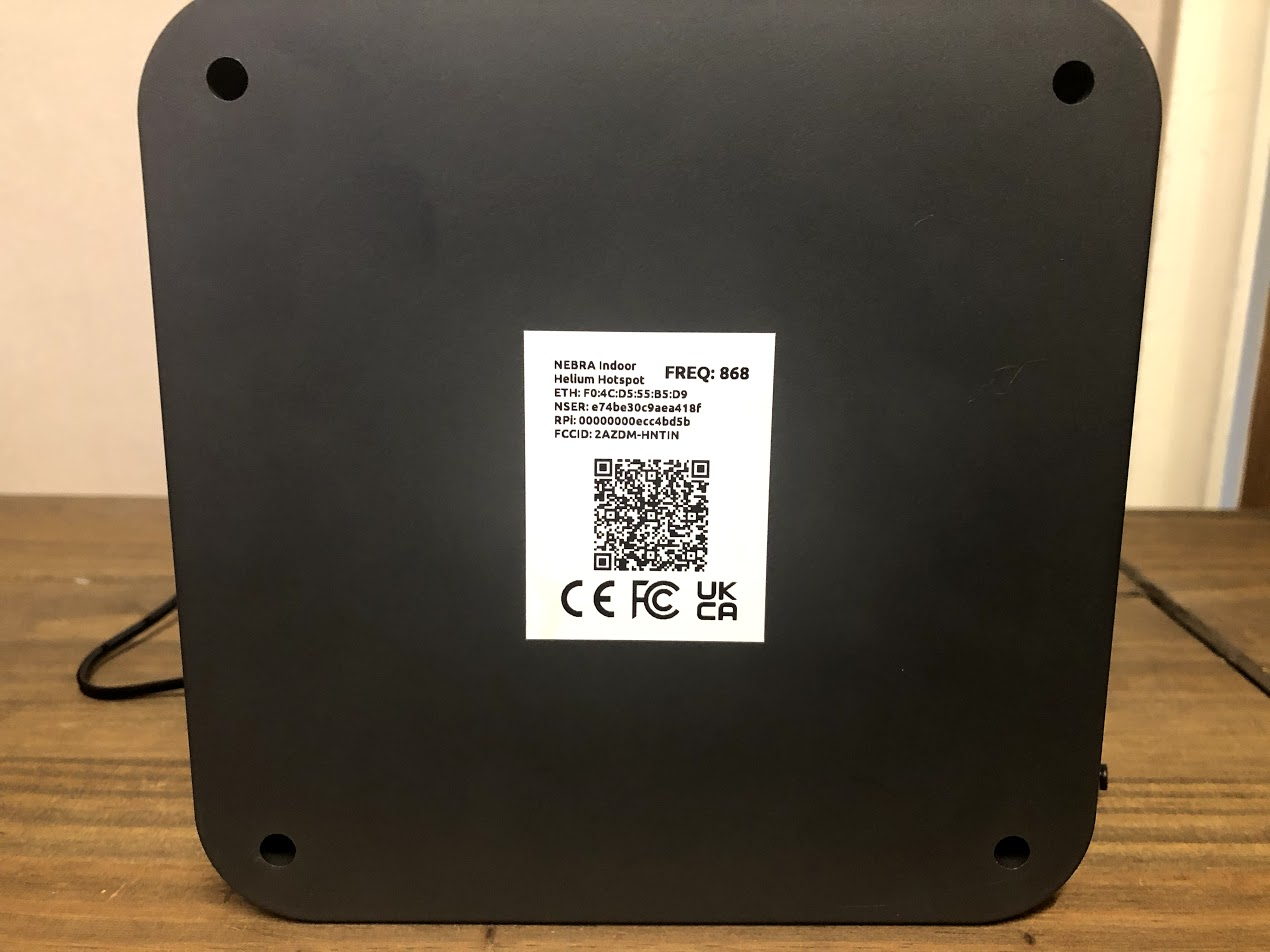
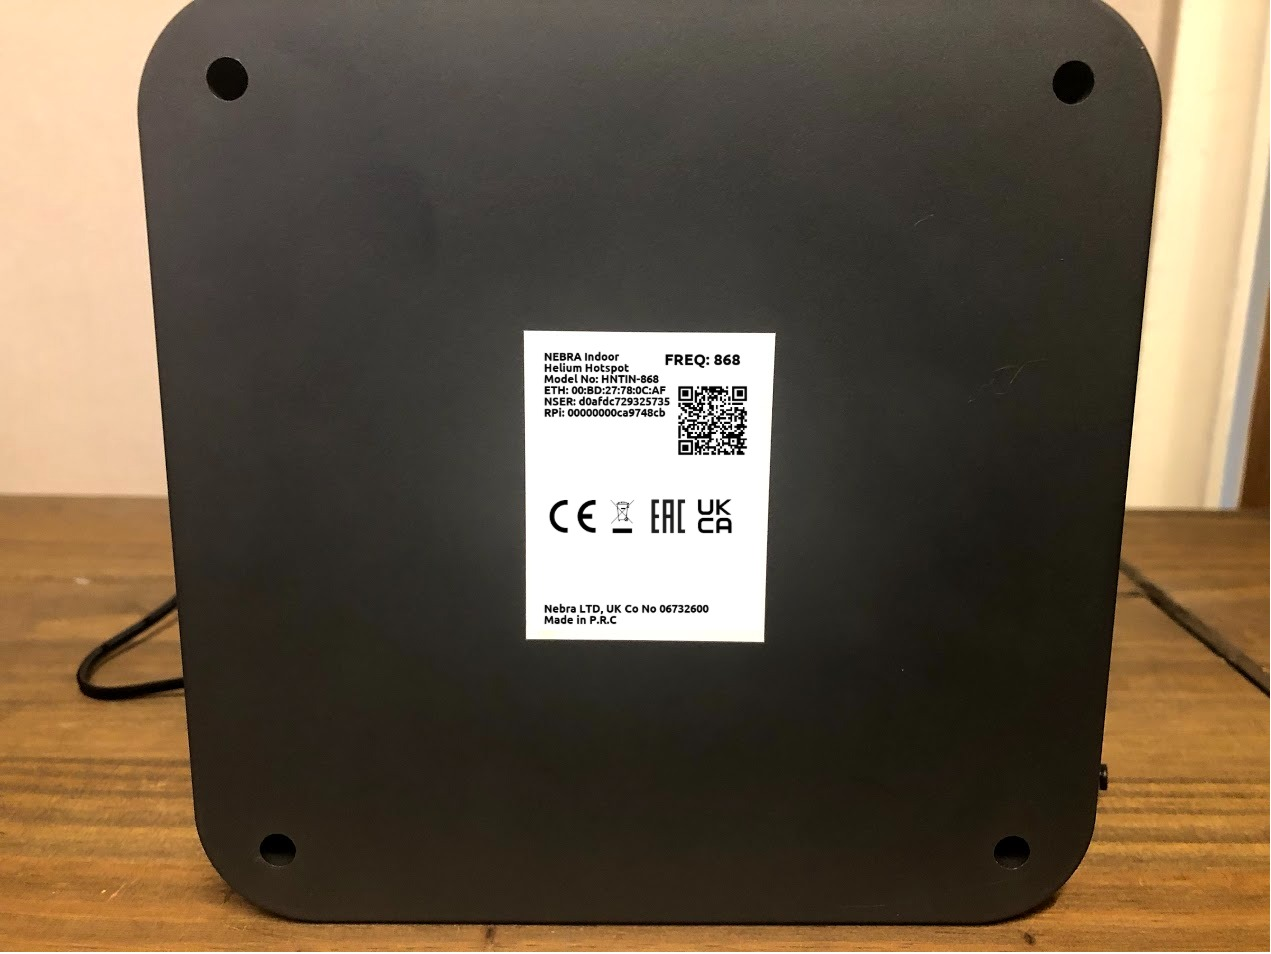
upated indoor product label image

diff --git a/docs/indoor-hotspot/overview.md b/docs/indoor-hotspot/overview.md
@@ -115,6 +115,8 @@ Each unit has a sticker located on the base of the unit.
 
 ![Indoor Hotspot Base](../media/photos/indoor-bottom.jpg  ':size=800')
 
+![product label image ](../media/photos/product_label_image.jpg)
+
 This includes important Information including:
 
 * Frequency of the Unit
